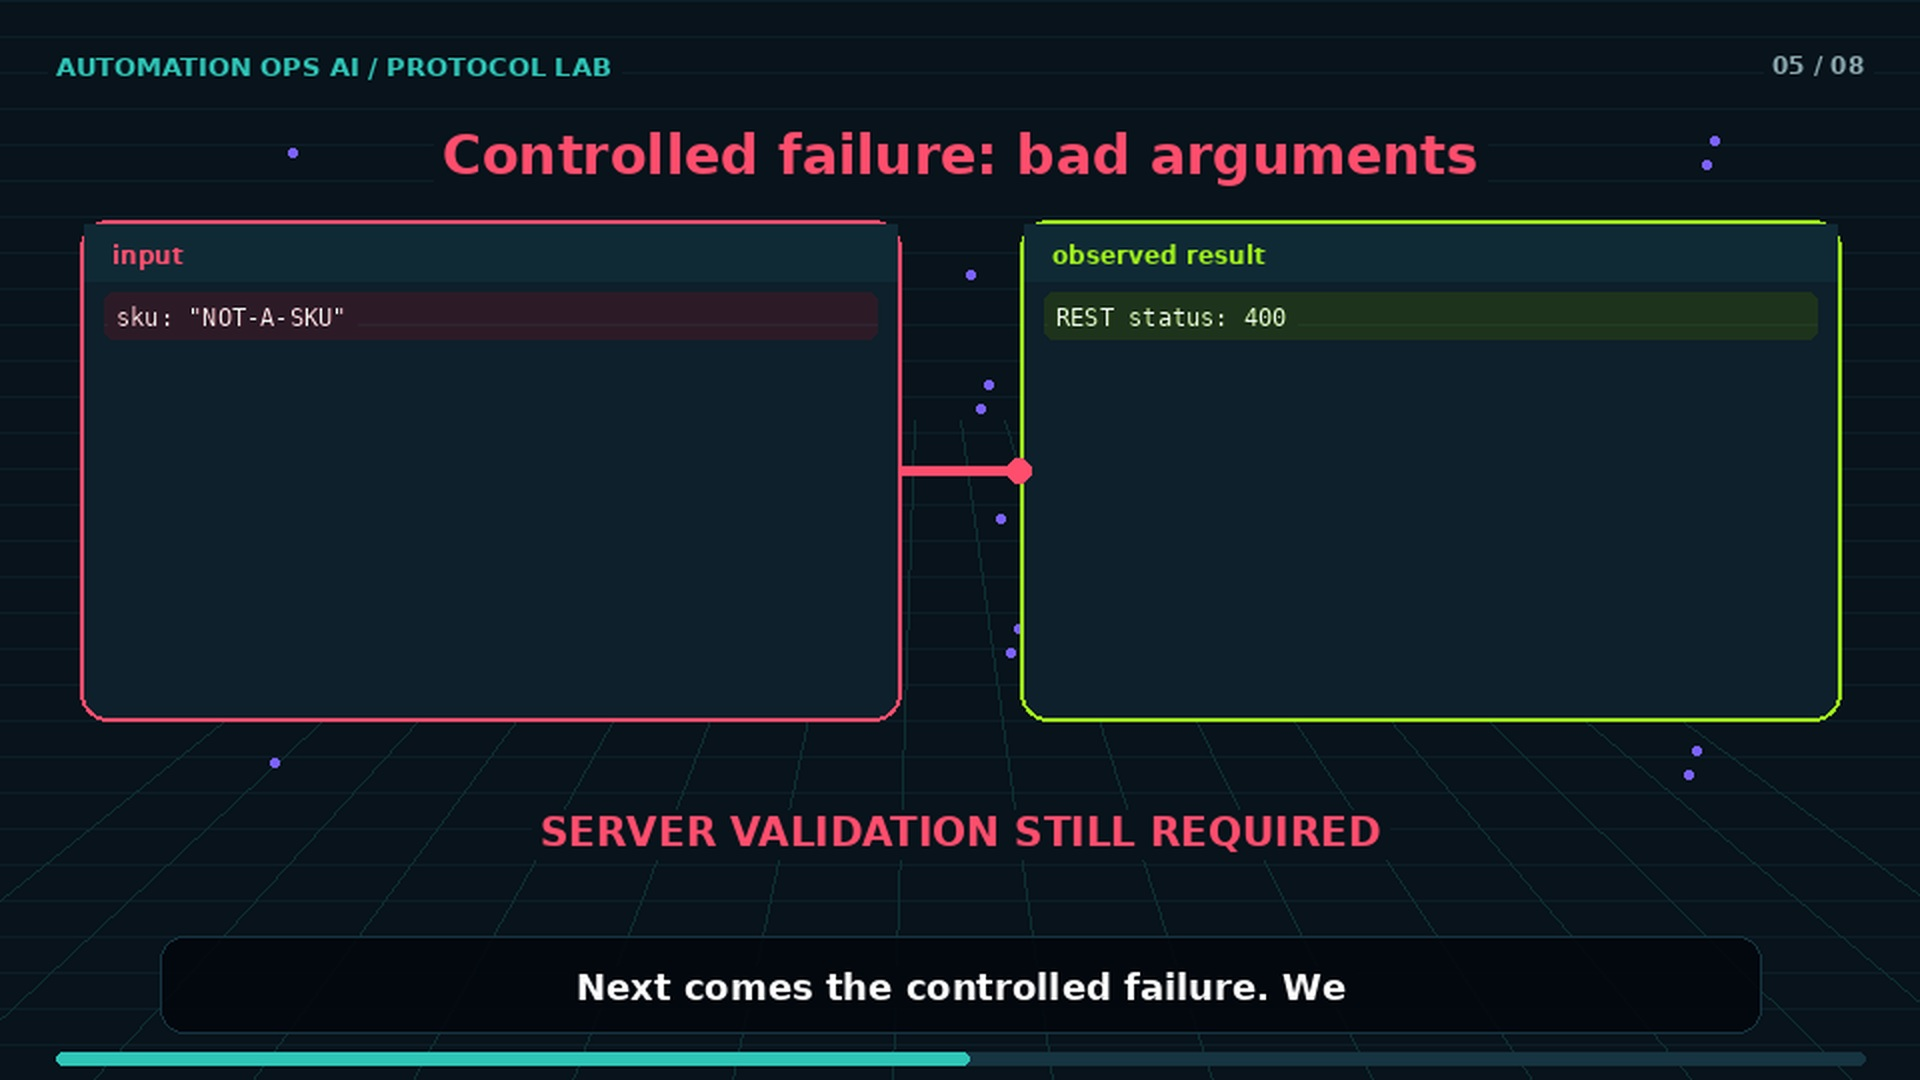
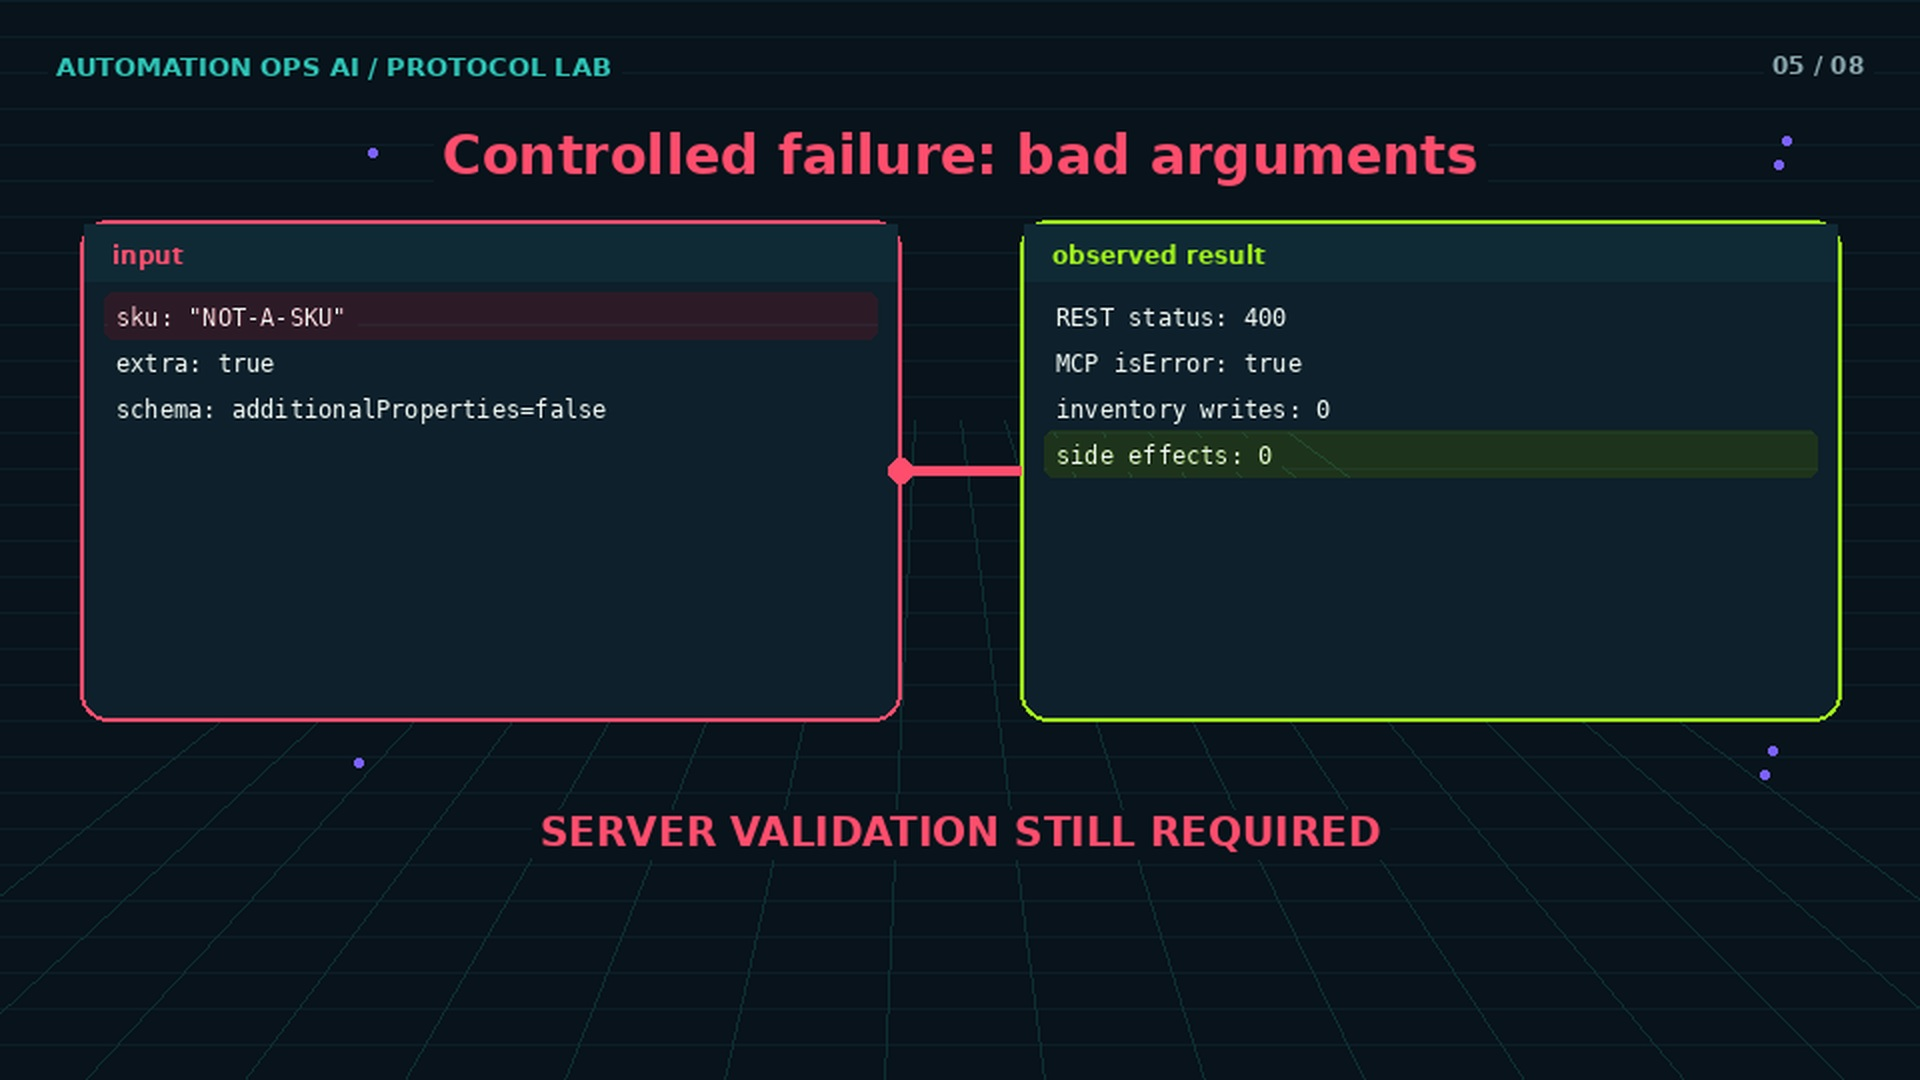
Review staged MCP versus REST episode evidence [skip ci]

diff --git a/deploy/creator-os/reviewed-masters/staged/mcp-vs-rest-inventory-20261010/renderer.py b/deploy/creator-os/reviewed-masters/staged/mcp-vs-rest-inventory-20261010/renderer.py
@@ -181,9 +181,13 @@ def main():
  for no in range(n):
   fr=frame_at(no/FPS,timeline,proof); im,o,r=fr.finish(); overlap+=o; removed+=r; maxboxes=max(maxboxes,len(fr.boxes)); proc.stdin.write(im.tobytes())
   if no%(FPS*15)==0: samples.append(im.resize((320,180)))
-  if no==round(timeline[20]['start']*FPS): im.resize((1920,1080),Image.Resampling.LANCZOS).save(a.output/'thumbnail.jpg',quality=94)
  proc.stdin.close(); assert proc.wait()==0; final=a.output/'video.mp4'; subprocess.run(['ffmpeg','-y','-v','error','-i',str(a.output/'silent.mp4'),'-i',str(a.output/'voice.wav'),'-filter:a','highpass=f=70,acompressor=threshold=-20dB:ratio=2.2:attack=8:release=150,loudnorm=I=-16:TP=-1.5:LRA=7','-c:v','copy','-c:a','aac','-b:a','192k','-shortest','-movflags','+faststart',str(final)],check=True)
  sheet=Image.new('RGB',(1280,180*math.ceil(len(samples)/4)),C['bg'])
  for j,im in enumerate(samples): sheet.paste(im,((j%4)*320,(j//4)*180))
+ # Export a dedicated clean thumbnail from the failure scene. Captions and the
+ # timeline progress bar are intentionally omitted from packaging artwork.
+ thumb_t=timeline[20]['start']+2.0; thumb=Frame(thumb_t); background(thumb,thumb_t,4)
+ scene_failure(thumb,thumb_t,2.0,3,1.0); thumb_im,_,_=thumb.finish()
+ thumb_im.resize((1920,1080),Image.Resampling.LANCZOS).save(a.output/'thumbnail.jpg',quality=94)
  sheet.save(a.output/'contact-sheet.jpg',quality=90); report={'passed':overlap==0,'framesChecked':n,'intersectingPixels':int(overlap),'effectPixelsRemovedByTextMasks':int(removed),'textBoundsCheckedEveryFrame':True,'maxTextBoxesPerFrame':maxboxes,'videoSha256':hashlib.sha256(final.read_bytes()).hexdigest()}; (a.output/'effect-overlap-report.json').write_text(json.dumps(report,indent=2)+'\n'); print(json.dumps({'duration':duration,'proof':proof,'composition':report}))
 if __name__=='__main__': main()

diff --git a/renderers/2026-10-10-mcp-vs-rest-standard.py b/renderers/2026-10-10-mcp-vs-rest-standard.py
@@ -181,9 +181,13 @@ def main():
  for no in range(n):
   fr=frame_at(no/FPS,timeline,proof); im,o,r=fr.finish(); overlap+=o; removed+=r; maxboxes=max(maxboxes,len(fr.boxes)); proc.stdin.write(im.tobytes())
   if no%(FPS*15)==0: samples.append(im.resize((320,180)))
-  if no==round(timeline[20]['start']*FPS): im.resize((1920,1080),Image.Resampling.LANCZOS).save(a.output/'thumbnail.jpg',quality=94)
  proc.stdin.close(); assert proc.wait()==0; final=a.output/'video.mp4'; subprocess.run(['ffmpeg','-y','-v','error','-i',str(a.output/'silent.mp4'),'-i',str(a.output/'voice.wav'),'-filter:a','highpass=f=70,acompressor=threshold=-20dB:ratio=2.2:attack=8:release=150,loudnorm=I=-16:TP=-1.5:LRA=7','-c:v','copy','-c:a','aac','-b:a','192k','-shortest','-movflags','+faststart',str(final)],check=True)
  sheet=Image.new('RGB',(1280,180*math.ceil(len(samples)/4)),C['bg'])
  for j,im in enumerate(samples): sheet.paste(im,((j%4)*320,(j//4)*180))
+ # Export a dedicated clean thumbnail from the failure scene. Captions and the
+ # timeline progress bar are intentionally omitted from packaging artwork.
+ thumb_t=timeline[20]['start']+2.0; thumb=Frame(thumb_t); background(thumb,thumb_t,4)
+ scene_failure(thumb,thumb_t,2.0,3,1.0); thumb_im,_,_=thumb.finish()
+ thumb_im.resize((1920,1080),Image.Resampling.LANCZOS).save(a.output/'thumbnail.jpg',quality=94)
  sheet.save(a.output/'contact-sheet.jpg',quality=90); report={'passed':overlap==0,'framesChecked':n,'intersectingPixels':int(overlap),'effectPixelsRemovedByTextMasks':int(removed),'textBoundsCheckedEveryFrame':True,'maxTextBoxesPerFrame':maxboxes,'videoSha256':hashlib.sha256(final.read_bytes()).hexdigest()}; (a.output/'effect-overlap-report.json').write_text(json.dumps(report,indent=2)+'\n'); print(json.dumps({'duration':duration,'proof':proof,'composition':report}))
 if __name__=='__main__': main()

diff --git a/deploy/creator-os/reviewed-masters/staged/mcp-vs-rest-inventory-20261010/README.md b/deploy/creator-os/reviewed-masters/staged/mcp-vs-rest-inventory-20261010/README.md
@@ -1,0 +1,28 @@
+# MCP vs REST inventory lab — staged master
+
+This package is intentionally staged, not bundled for automatic publication.
+
+## Verifiable result
+
+- One validated inventory core is exercised through a real local REST endpoint and an MCP stdio JSON-RPC session.
+- The MCP session performs `initialize`, `notifications/initialized`, `tools/list`, and `tools/call`.
+- Both paths return the same `GPU-01` record: 7 available units in `MEX-1`.
+- Invalid REST input returns HTTP 400; invalid MCP arguments are rejected with `isError: true`.
+- Fifty successful lookups per path are compared. Reported latency is explicitly scoped to local loopback and is not a universal protocol ranking.
+
+## Quality evidence
+
+- 1920×1080, 30 fps, 327.93 seconds.
+- Audio: −16.13 LUFS integrated; −1.34 dBTP true peak.
+- No black segments or long silences.
+- 9,838 frames checked for text/effect overlap; zero intersections.
+- 286.11 seconds of verified action/proof (87.25% of runtime); zero text-card-only seconds.
+- Eight unique scene signatures with no renderer, palette/background, or signature reuse detected against bundled history.
+
+## Rights
+
+Visuals are original procedural graphics produced by the included renderer. Narration uses the stock Kokoro `af_heart` voice with commercially usable open model assets. No music, third-party footage, celebrity voice, logo, or protected character is included.
+
+## Publication block
+
+Automated timing, composition, audio, originality, and copyright checks pass. Publication remains blocked until a listening-capable reviewer confirms voice naturalness, pronunciation, and perceptual synchronization between narration and visible actions.
